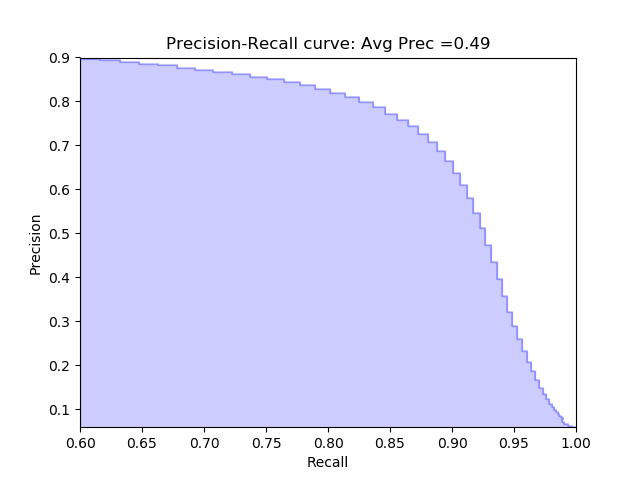
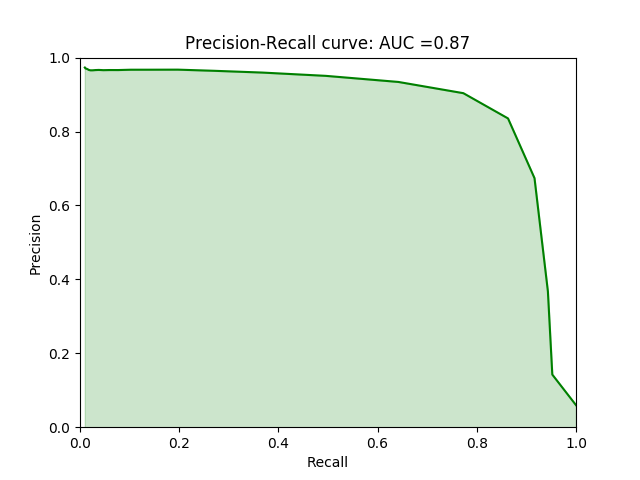
AUC computed using PR curve, experiment for non-adaptive highway done

diff --git a/sota_background.py b/sota_background.py
@@ -15,10 +15,11 @@ from config.load_configutation import Configuration
 from tools.image_parser import get_image_list_changedetection_dataset
 from tools.log import setup_logging
 from metrics.segmentation_metrics import evaluate_single_image
-from tools.visualization import plot_AUC_curve
+from tools.visualization import plot_roc_curve
 from tools import Subsense
 
 EPSILON = 1e-8
+
 
 def evaluate_model(imageList, gtList, model):
     tp = 0
@@ -38,13 +39,13 @@ def evaluate_model(imageList, gtList, model):
             tn += tn_im
             fn += fn_im
 
-
     precision = tp / (tp + fp) if (tp + fp) > 0 else 0.0
     tpr = tp / (tp + fn) if (tp + fn) > 0 else 0.0
     f1_score = 2 * precision * tpr / (precision + tpr + EPSILON)
     fpr = fp / (fp + tn) if (fp + tn) > 0 else 0.0
 
     return tpr, fpr, f1_score
+
 
 def mog_background_estimator(imageList, gtList, cf):
     # Paper 'An improved adaptive background mixture model for real-time tracking with shadow detection'
@@ -86,7 +87,7 @@ def mog_background_estimator(imageList, gtList, cf):
             max_score = f1_score
             best_th = th
 
-    area = plot_AUC_curve(tpr, fpr, cf.output_folder)
+    area = plot_roc_curve(tpr, fpr, cf.output_folder)
 
     logger.info('Finished search')
     logger.info('Best threshold: {:-3f}'.format(best_th))
@@ -108,6 +109,7 @@ def mog_background_estimator(imageList, gtList, cf):
             image_name = os.path.basename(image)
             image_name = os.path.splitext(image_name)[0]
             cv.imwrite(os.path.join(cf.results_path, 'MOG_' + image_name + '.' + cf.result_image_type), foreground)
+
 
 def mog2_background_estimator(imageList, gtList, cf):
     # Papers 'Improved adaptive Gausian mixture model for background subtraction' by Z.Zivkovic in 2004 and
@@ -149,7 +151,7 @@ def mog2_background_estimator(imageList, gtList, cf):
             max_score = f1_score
             best_th = th
 
-    area = plot_AUC_curve(tpr, fpr, cf.output_folder)
+    area = plot_roc_curve(tpr, fpr, cf.output_folder)
 
     logger.info('Finished search')
     logger.info('Best threshold: {:-3f}'.format(best_th))
@@ -171,6 +173,7 @@ def mog2_background_estimator(imageList, gtList, cf):
             image_name = os.path.basename(image)
             image_name = os.path.splitext(image_name)[0]
             cv.imwrite(os.path.join(cf.results_path, 'MOG2_' + image_name + '.' + cf.result_image_type), foreground)
+
 
 def gmg_background_estimator(imageList, gtList, cf):
     # Paper 'Visual Tracking of Human Visitors under Variable-Lighting Conditions for a Responsive Audio Art Installation'
@@ -212,7 +215,7 @@ def gmg_background_estimator(imageList, gtList, cf):
             max_score = f1_score
             best_th = th
 
-    area = plot_AUC_curve(tpr, fpr, cf.output_folder)
+    area = plot_roc_curve(tpr, fpr, cf.output_folder)
 
     logger.info('Finished search')
     logger.info('Best threshold: {:-3f}'.format(best_th))
@@ -235,6 +238,7 @@ def gmg_background_estimator(imageList, gtList, cf):
             image_name = os.path.splitext(image_name)[0]
             cv.imwrite(os.path.join(cf.results_path, 'GMG_' + image_name + '.' + cf.result_image_type), foreground)
 
+
 def lbsp_background_estimator(imageList, gtList, cf):
     # Paper 'Background subtraction using local svd binary pattern' by L. Guo in 2016
     logger = logging.getLogger(__name__)
@@ -248,6 +252,7 @@ def lbsp_background_estimator(imageList, gtList, cf):
             image_name = os.path.basename(image)
             image_name = os.path.splitext(image_name)[0]
             cv.imwrite(os.path.join(cf.results_path, 'LBSP_' + image_name + '.' + cf.result_image_type), foreground)
+
 
 def main():
     logger = logging.getLogger(__name__)

diff --git a/config/highway_background.py b/config/highway_background.py
@@ -6,24 +6,24 @@ results_path                 = 'datasets/highway/results/fill'
 
 # Input Images
 nr_images                    = 300
-first_image                  = '001050'   # Fist image filename
-image_type                   = 'jpg'        # Input image type
-gt_image_type                = 'png'        # Ground truth image type
+first_image                  = '001050'         # Fist image filename
+image_type                   = 'jpg'            # Input image type
+gt_image_type                = 'png'            # Ground truth image type
 result_image_type            = 'png'
 
 # Background Modelling
 alpha                         = 3.051
 rho                           = 0.211
 
-modelling_method              = 'adaptive'  # adaptive instead
-color_images                  = True        # Use RGB, HSV color channels
-color_space                   = "RGB"       # RGB, HSV
+modelling_method              = 'non-adaptive'  # adaptive instead
+color_images                  = False           # Use RGB, HSV color channels
+color_space                   = "RGB"           # RGB, HSV
 evaluate_foreground           = True
-evaluate_alpha_range          = [0, 6]      # range of alpha values
-evaluate_alpha_values         = 60          # number of alpha values to evaluate
+evaluate_alpha_range          = [0, 25]      # range of alpha values
+evaluate_alpha_values         = 150          # number of alpha values to evaluate
 evaluate_rho_range            = [0, 1]      # range of rho values
 evaluate_rho_values           = 20          # number of rho values to evaluate
-find_best_parameters          = True
+find_best_parameters          = False
 plot_back_model               = False
 
 # Foreground Modelling

diff --git a/video_surveillance.py b/video_surveillance.py
@@ -21,6 +21,7 @@ from skimage import morphology
 
 EPSILON = 1e-8
 
+
 def evaluation_metrics(cf):
     logger = logging.getLogger(__name__)
 
@@ -142,10 +143,9 @@ def background_estimation(cf):
         visualization.plot_metrics_vs_threshold(precision, recall, F1_score, alpha_range,
                                                 cf.output_folder)
 
-        visualization.plot_precision_recall_curve(precision, recall, cf.output_folder)
+        auc_pr = visualization.plot_precision_recall_curve(precision, recall, cf.output_folder)
 
-        area = visualization.plot_AUC_curve(recall, FPR, cf.output_folder)
-        logger.info("AUC: {}".format(area))
+        logger.info("AUC: {}".format(auc_pr))
 
         for alpha_value, prec, rec, f1 in zip(alpha_range, precision, recall, F1_score):
             logger.info(
@@ -246,6 +246,7 @@ def background_estimation(cf):
                     cv.imwrite(os.path.join(cf.results_path, 'ADAPTIVE_' + image_name + '.' + cf.result_image_type),
                                fore)
 
+
 def foreground_estimation(cf):
     logger = logging.getLogger(__name__)
 
@@ -286,7 +287,7 @@ def foreground_estimation(cf):
 
         for (image, gt) in zip(foreground_img_list, foreground_gt_list):
 
-            gt_img = cv.imread(image,  cv.IMREAD_GRAYSCALE)
+            gt_img = cv.imread(image, cv.IMREAD_GRAYSCALE)
             foreground, mean, variance = background_modeling.adaptive_foreground_estimation_color(
                 image, mean, variance, cf.alpha, cf.rho, cf.color_space
             )

diff --git a/tools/visualization.py b/tools/visualization.py
@@ -33,24 +33,23 @@ def plot_metrics_vs_threshold(precision, recall, F1_score, threshold,
 
 
 def plot_precision_recall_curve(precision, recall, output_folder=""):
-    plt.plot(recall, precision, color='b')
-    average_precision = reduce(lambda x, y: x + y, precision) / len(precision)
+    plt.plot(recall, precision, color='g')
+    auc_pr = auc(recall, precision, reorder=False)
+    plt.fill_between(recall, 0, precision, color='g', alpha=0.2)
     plt.xlabel('Recall')
     plt.ylabel('Precision')
     plt.ylim([0, 1])
     plt.xlim([0, 1])
-    plt.title('Precision-Recall curve: Avg Prec ={0:0.2f}'.format(average_precision))
+    plt.title('Precision-Recall curve: AUC ={:.2f}'.format(auc_pr))
     if output_folder != "":
         plt.savefig(os.path.join(output_folder, "task_1_2_precision_recall.png"))
     plt.show(block=False)
     plt.close()
 
-    area = auc(recall, precision, reorder=True)
-
-    return area
+    return auc_pr
 
 
-def plot_AUC_curve(tpr, fpr, output_folder=""):
+def plot_roc_curve(tpr, fpr, output_folder=""):
     area = auc(fpr, tpr, reorder=True)
     plt.step(fpr, tpr, color='b', alpha=0.2,
              where='post')

diff --git a/config/fall_background.py b/config/fall_background.py
@@ -19,8 +19,8 @@ modelling_method              = 'adaptive'  # gaussian, adaptive
 color_images                  = True        # Use RGB, HSV color channels
 color_space                   = "RGB"       # RGB, HSV
 evaluate_foreground           = True
-evaluate_alpha_range          = [0, 6]      # range of alpha values
-evaluate_alpha_values         = 60          # number of alpha values to evaluate
+evaluate_alpha_range          = [0, 25]      # range of alpha values
+evaluate_alpha_values         = 150          # number of alpha values to evaluate
 evaluate_rho_range            = [0, 1]      # range of rho values
 evaluate_rho_values           = 20          # number of rho values to evaluate
 find_best_parameters          = False

diff --git a/config/traffic_background.py b/config/traffic_background.py
@@ -19,8 +19,8 @@ modelling_method              = 'adaptive'  # adaptive instead
 color_images                  = True        # Use RGB, HSV color channels
 color_space                   = "RGB"       # RGB, HSV
 evaluate_foreground           = True
-evaluate_alpha_range          = [0, 6]      # range of alpha values
-evaluate_alpha_values         = 60          # number of alpha values to evaluate
+evaluate_alpha_range          = [0, 20]      # range of alpha values
+evaluate_alpha_values         = 150          # number of alpha values to evaluate
 evaluate_rho_range            = [0, 1]      # range of rho values
 evaluate_rho_values           = 20          # number of rho values to evaluate
 find_best_parameters          = True
